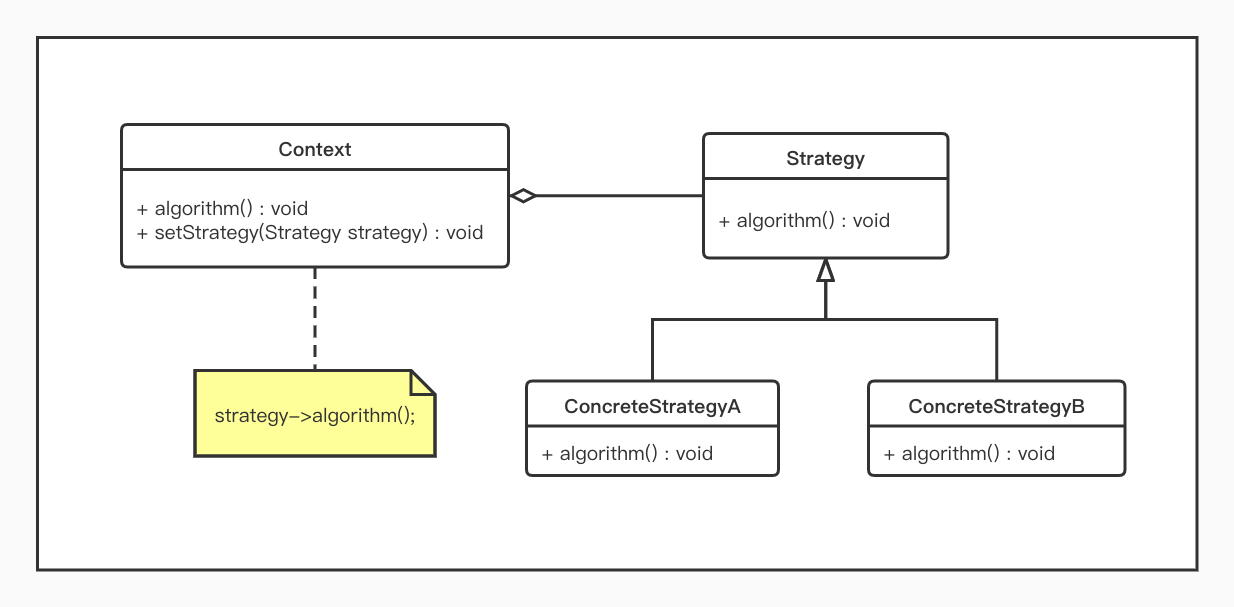
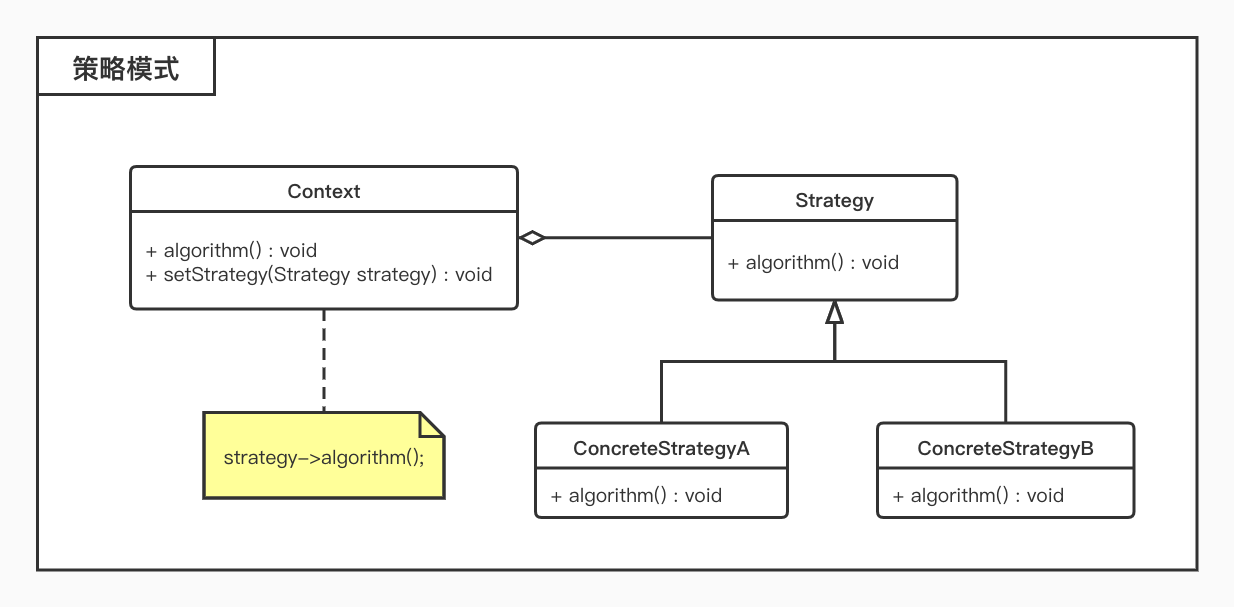
代码设计

diff --git a/代码设计/设计模式/工厂模式.md b/代码设计/设计模式/工厂模式.md
@@ -1,0 +1,84 @@
+# 工厂模式
+
+## 概述
+
+* 工厂父类负责定义创建产品对象的公共接口，而工厂子类则负责生成具体的产品对象，这样做的目的是将产品类的实例化操作延迟到工厂子类中完成，即通过工厂子类来确定究竟应该实例化哪一个具体产品类；
+* 在系统中加入新产品时，无须修改抽象工厂和抽象产品提供的接口，无须修改客户端，也无须修改其他的具体工厂和具体产品，而只要添加一个具体工厂和具体产品就可以了，更加符合**开闭原则**；
+
+## 结构
+
+* 工厂方法模式包含如下角色：
+	* `Product`：抽象产品
+	* `ConcreteProduct`：具体产品
+	* `Factory`：抽象工厂
+	* `ConcreteFactory`：具体工厂
+
+![](./img/factory.jpg)
+
+## 适用环境
+
+* 一个类不知道它所需要的对象的类；
+* 一个类通过其子类来指定创建哪个对象；
+* 将创建对象的任务委托给多个工厂子类中的某一个，客户端在使用时可以无须关心是哪一个工厂子类创建产品子类，需要时再动态指定；
+
+## 示例
+
+```php
+<?php
+
+
+interface IPeople
+{
+    public function say();
+}
+
+class Man implements IPeople
+{
+    public function say()
+    {
+        echo 'this is a man'.PHP_EOL;
+    }
+}
+
+class Women implements IPeople
+{
+    public function say()
+    {
+        echo 'this is a women'.PHP_EOL;
+    }
+}
+
+interface ICreatePeople
+{
+    public function create() : IPeople;
+}
+
+class ManFactory implements ICreatePeople
+{
+    public function create() : IPeople
+    {
+        return new Man();
+    }
+
+}
+
+class WomenFactory implements ICreatePeople
+{
+    public function create() : IPeople
+    {
+        return new Women();
+    }
+}
+
+
+$manFactory = new ManFactory();
+$man = $manFactory->create();
+$man->say();
+
+$womenFactory = new WomenFactory();
+$women = $womenFactory->create();
+$women->say();
+```
+
+
+

diff --git a/代码设计/设计模式/观察者模式.md b/代码设计/设计模式/观察者模式.md
@@ -1,0 +1,26 @@
+# 观察者模式
+
+## 概述
+
+* 定义对象间的一种一对多依赖关系，使得每当一个对象状态发生改变时，其相关依赖对象皆得到通知并被自动更新；
+* 在观察者模式中，主题是通知的发布者，而被通知的对象称为观察者，一个主题可以对应多个观察者，而且这些观察者之间没有相互联系，可以根据需要增加和删除观察者，使得系统更易于扩展；
+
+## 结构
+
+* 观察者模式包含如下角色：
+	* `Subject`：主题
+		* 把所有观察者对象的引用保存到一个聚集里，每个主题都可以有多个的观察者，可以增加和删除观察者对象；
+	* `ConcreteSubject`：具体主题
+		* 将有关状态存入具体观察者对象；在具体主题内部状态改变时，给所有登记过的观察者发出通知；
+	* `Observer`：观察者
+		* 为所有的具体观察者定义一个接口，在得到主题通知时更新自己； 
+	* `ConcreteObserver`：具体观察者
+		* 实现抽象观察者角色所要求的更新接口；
+
+![](./img/observer.jpg)
+
+## 适用环境
+
+* 一个抽象模型有两个方面，其中一个方面依赖于另一个方面；
+* 一个对象的改变将导致其他一个或多个对象也发生改变，而不知道具体有多少对象将发生改变；
+* 一个对象必须通知其他对象，而并不知道这些对象是谁；

diff --git a/代码设计/设计模式/策略模式.md b/代码设计/设计模式/策略模式.md
@@ -9,11 +9,18 @@
 ## 结构
 
 * 策略模式包含如下角色：
-	* `Context`: 环境类
-	* `Strategy`: 抽象策略类
-	* `ConcreteStrategy`: 具体策略类
+    * `Context`：环境类
+    * `Strategy`：抽象策略类
+    * `ConcreteStrategy`：具体策略类
 
 ![](./img/strategy.jpg)
+
+## 适用环境
+
+* 在一个系统里面有许多类，它们之间的区别仅在于它们的行为，使用策略模式可以动态地让一个对象在许多行为中选择一种行为；
+* 一个系统需要动态地在几种算法中选择一种；
+* 避免使用难以维护的多重条件选择语句；
+* 对客户隐藏具体策略(算法)的实现细节，彼此完全独立；
 
 ## 示例
 
@@ -73,7 +80,7 @@ class CarStrategy implements ITravelStrategy
  * 游客可选择使用何种出行方式
  */
 class VisitorContext 
-{	
+{   
 
     /**
      * @var ITravelStrategy $travelStrategy 出行方式
@@ -82,7 +89,7 @@ class VisitorContext
 
     public function __construct(ITravelStrategy $travelStrategy)
     {
-    	$this->travelStrategy = $travelStrategy;
+        $this->travelStrategy = $travelStrategy;
     }
 
     public function setTravelStrategy(ITravelStrategy $travelStrategy) :void

diff --git a/代码设计/设计模式/模板模式.md b/代码设计/设计模式/模板模式.md
@@ -1,0 +1,23 @@
+# 模板模式
+
+## 概述
+
+* 定义一个操作中算法的骨架，而将一些步骤延迟到子类中，模板方法使得子类可以不改变算法的结构即可重定义该算法的某些特定步骤；
+* 完成一件事情，有固定的数个步骤，但是每个步骤根据对象的不同，而实现细节不同；在父类中定义一个完成该事情的总方法，按照完成事件需要的步骤去调用其每个步骤的实现方法；每个步骤的具体实现，由子类完成；
+* 通过一个父类调用其子类的操作，通过子类对父类进行扩展增加新的行为，符合**开闭原则**；
+* 属于**行为型模式**
+
+## 结构
+
+* 模板模式包含如下角色：
+	* `AbstractClass`：抽象父类
+		* 实现了模板方法，定义了算法的骨架； 
+	* `ConcreteClass`：具体类
+		* 实现抽象类中的抽象方法，不同的对象的具体实现细节； 
+
+![](./img/template.jpg)
+
+## 适用环境
+
+* 重要，复杂的方法，例如框架的骨架；
+* 有多个子类共有方法，且逻辑相同；

diff --git a/代码设计/设计模式/命令模式.md b/代码设计/设计模式/命令模式.md
@@ -1,0 +1,24 @@
+# 命令模式
+
+## 概述
+
+* 将一个请求封装为一个对象，从而使我们可用不同的请求对客户进行参数化；
+* 每一个命令都是一个操作：请求的一方发出请求，要求执行一个操作；接收的一方收到请求，并执行操作；
+* 对命令进行封装，将发出命令的责任和执行命令的责任分割开；
+
+## 结构
+
+* 命令模式包含如下角色：
+	* `Command`：抽象命令类 
+	* `ConcreteCommand`：具体命令类
+	* `Invoker`：调用者
+	* `Receiver`：接收者
+	* `Client`：客户类
+
+![](./img/command.jpg)
+
+## 适用环境
+
+* 将请求调用者和请求接收者解耦，使得调用者和接收者不直接交互；
+* 在不同的时间指定请求、将请求排队和执行请求；
+* 支持命令的撤销(`Undo`)操作和恢复(`Redo`)操作；

diff --git a/代码设计/设计模式/代理模式.md b/代码设计/设计模式/代理模式.md
@@ -1,0 +1,18 @@
+# 代理模式
+
+## 概述
+
+* 为其他对象提供一种代理以控制对这个对象的访问；
+* 在某些情况下，一个对象不适合或者不能直接引用另一个对象，代理对象可以在对象之间起到**中介**的作用；
+
+## 结构
+
+* 代理模式包含如下角色：
+	* `Subject`：抽象主题角色
+		* 通过接口或抽象类声明真实角色实现的业务方法； 
+	* `Proxy`：代理主题角色
+		* 实现抽象角色，是真实角色的代理，也叫做委托类或代理类，通过真实角色的业务逻辑方法来实现抽象方法； 
+	* `RealSubject`：真实主题角色 
+		* 实现抽象角色，也叫做被委托角色或被代理角色，是业务逻辑的具体执行者，供代理角色调用；
+
+![](./img/proxy.jpg)

diff --git a/代码设计/设计模式/门面模式.md b/代码设计/设计模式/门面模式.md
@@ -1,0 +1,21 @@
+# 门面模式
+
+## 概述
+
+* 门面模式又称为**外观模式**；
+* 提供一个统一的接口，用来访问子系统中的一群接口；
+* 外观模式定义了一个高层接口，让子系统更容易使用；
+
+## 结构
+
+* 门面模式包含如下角色：
+	* `Facade`：外观角色
+	* `SubSystem`：子系统角色
+
+![](./img/facade.jpg)
+
+## 适用环境
+
+* 要为一个复杂子系统提供一个简单接口；
+* 客户程序与多个子系统之间存在很大的依赖性；
+* 在层次化结构中，需要定义系统中每一层的入口，使得层与层之间不直接产生联系；

diff --git a/代码设计/SOLID/单一职责原则.md b/代码设计/SOLID/单一职责原则.md
@@ -31,10 +31,10 @@ private function isDistributionProductOnSale() : bool
 
 private function isDistributionProductNotPurchased() : bool
 {
-	# code...
+    # code...
 }
 
 private function isDistributionProductNotBelongToSelf() : bool
 {
-	# code...
+    # code...
 }

diff --git a/代码设计/SOLID/接口隔离原则.md b/代码设计/SOLID/接口隔离原则.md
@@ -2,4 +2,6 @@
 
 ## 概述
 
+一个类对另外一个类的依赖性应当是建立在最小的接口上，也就是说一个接口应该拥有尽可能少的行为，它是精简的，也是单一的。
+
 ## 示例
